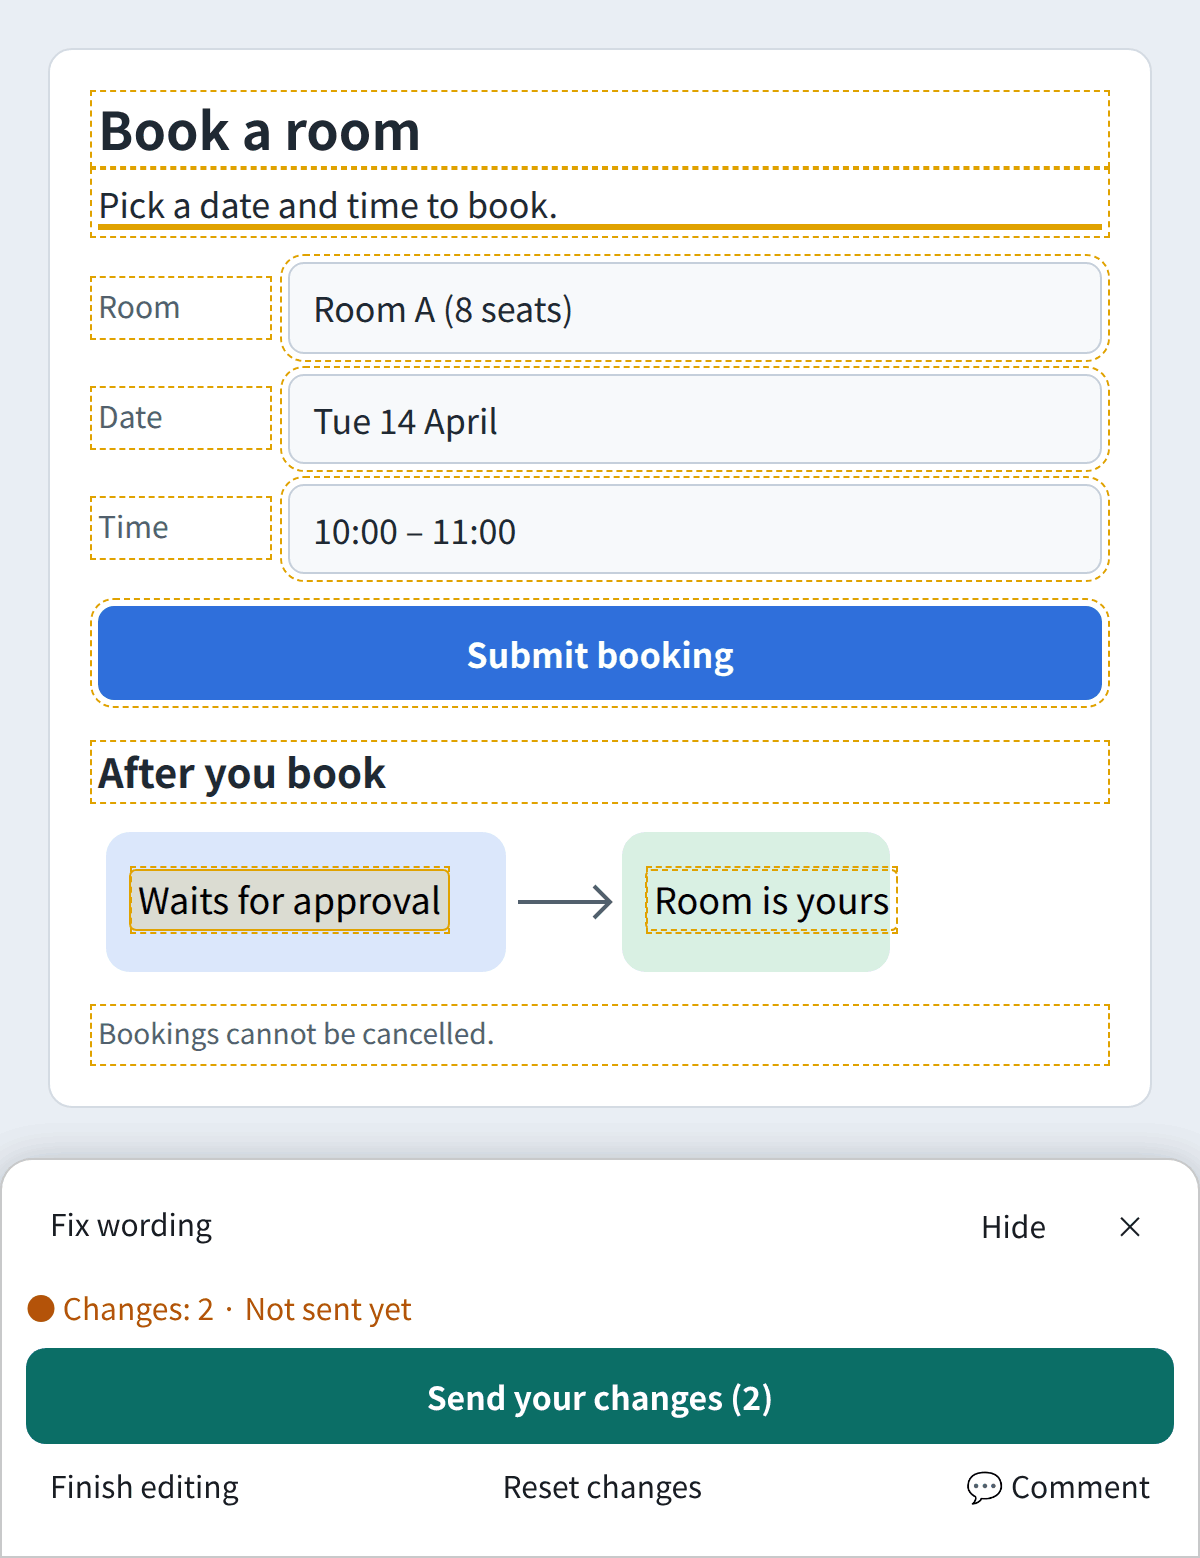
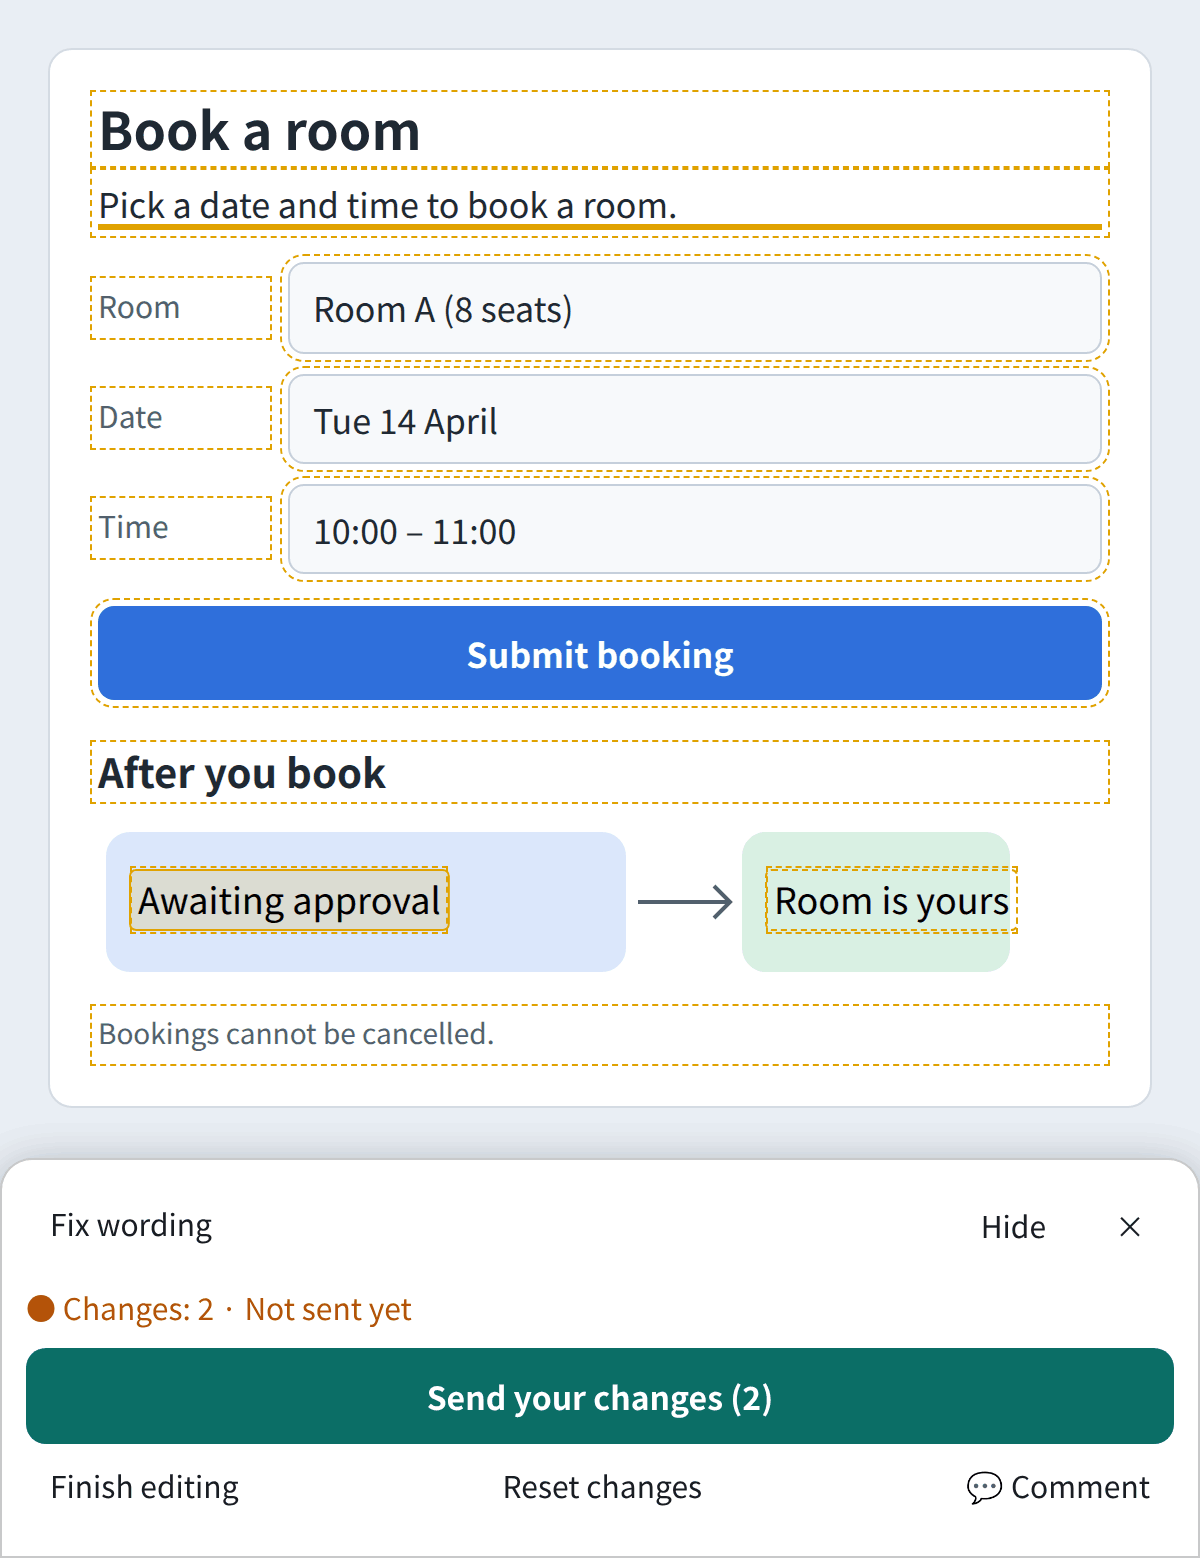
Make the screenshot example fix stiff wording into plain wording
The rewritten texts read worse than the originals. The page now starts with
marketing-style filler and a wordy figure label, and the edits shown replace
them with plain ones.

diff --git a/docs/images/pages/booking.ja.html b/docs/images/pages/booking.ja.html
@@ -22,18 +22,18 @@
 <body>
   <div class="card">
     <h1>会議室を予約する</h1>
-    <p>ご希望の日時を選択して予約を行ってください。</p>
+    <p>シームレスな予約体験で、チームの生産性を最大化しましょう。</p>
     <div class="row"><span>会議室</span><div>会議室A（8席）</div></div>
     <div class="row"><span>日付</span><div>4月14日（火）</div></div>
     <div class="row"><span>時間</span><div>10:00〜11:00</div></div>
     <div class="btn">予約を送信</div>
     <h2>予約のあと</h2>
-    <svg viewBox="0 0 400 100" width="400" role="img" aria-label="予約のあとの流れ">
-      <rect x="4" y="10" width="200" height="70" rx="12" fill="#dbe7fb"/>
-      <rect x="262" y="10" width="134" height="70" rx="12" fill="#d9f0e3"/>
-      <path d="M210 45h46m-8-8 8 8-8 8" fill="none" stroke="#52606d" stroke-width="2"/>
-      <text x="20" y="51" font-size="18">承認待ち</text>
-      <text x="278" y="51" font-size="18">利用できます</text>
+    <svg viewBox="0 0 460 100" width="460" role="img" aria-label="予約のあとの流れ">
+      <rect x="4" y="10" width="260" height="70" rx="12" fill="#dbe7fb"/>
+      <rect x="322" y="10" width="134" height="70" rx="12" fill="#d9f0e3"/>
+      <path d="M270 45h46m-8-8 8 8-8 8" fill="none" stroke="#52606d" stroke-width="2"/>
+      <text x="20" y="51" font-size="18">承認プロセスを実行中</text>
+      <text x="338" y="51" font-size="18">利用できます</text>
     </svg>
     <p class="note">予約は取り消せません。</p>
   </div>

diff --git a/docs/images/pages/booking.en.html b/docs/images/pages/booking.en.html
@@ -22,18 +22,18 @@
 <body>
   <div class="card">
     <h1>Book a room</h1>
-    <p>Please select your desired date and time to make a booking.</p>
+    <p>Unlock seamless collaboration by effortlessly booking your perfect space.</p>
     <div class="row"><span>Room</span><div>Room A (8 seats)</div></div>
     <div class="row"><span>Date</span><div>Tue 14 April</div></div>
     <div class="row"><span>Time</span><div>10:00 – 11:00</div></div>
     <div class="btn">Submit booking</div>
     <h2>After you book</h2>
-    <svg viewBox="0 0 400 100" width="400" role="img" aria-label="What happens after booking">
-      <rect x="4" y="10" width="200" height="70" rx="12" fill="#dbe7fb"/>
-      <rect x="262" y="10" width="134" height="70" rx="12" fill="#d9f0e3"/>
-      <path d="M210 45h46m-8-8 8 8-8 8" fill="none" stroke="#52606d" stroke-width="2"/>
-      <text x="20" y="51" font-size="18">Awaiting approval</text>
-      <text x="278" y="51" font-size="18">Room is yours</text>
+    <svg viewBox="0 0 460 100" width="460" role="img" aria-label="What happens after booking">
+      <rect x="4" y="10" width="260" height="70" rx="12" fill="#dbe7fb"/>
+      <rect x="322" y="10" width="134" height="70" rx="12" fill="#d9f0e3"/>
+      <path d="M270 45h46m-8-8 8 8-8 8" fill="none" stroke="#52606d" stroke-width="2"/>
+      <text x="20" y="51" font-size="18">Approval process in progress</text>
+      <text x="338" y="51" font-size="18">Room is yours</text>
     </svg>
     <p class="note">Bookings cannot be cancelled.</p>
   </div>

diff --git a/README.ja.md b/README.ja.md
@@ -13,11 +13,11 @@
 ```
 会議室予約（モック） 文言の直し
 
-1. 元：ご希望の日時を選択して予約を行ってください。
-   新：使いたい日時を選んで予約します。
+1. 元：シームレスな予約体験で、チームの生産性を最大化しましょう。
+   新：日時を選んで、会議室を予約します。
 
-2. （図）元：承認待ち
-   新：承認を待ちます
+2. （図）元：承認プロセスを実行中
+   新：承認待ち
 ```
 
 作った人は、届いた一覧どおりに元のファイルを直します。AI に貼って直させることもできます。

diff --git a/README.md b/README.md
@@ -13,11 +13,11 @@ it, press one button, and paste the result into a chat or an email to you:
 ```
 Room booking (mockup) — Wording changes
 
-1. Before: Please select your desired date and time to make a booking.
-   After: Pick a date and time to book.
+1. Before: Unlock seamless collaboration by effortlessly booking your perfect space.
+   After: Pick a date and time to book a room.
 
-2. (figure) Before: Awaiting approval
-   After: Waits for approval
+2. (figure) Before: Approval process in progress
+   After: Awaiting approval
 ```
 
 You apply the list to the source yourself, or paste it to your agent.
